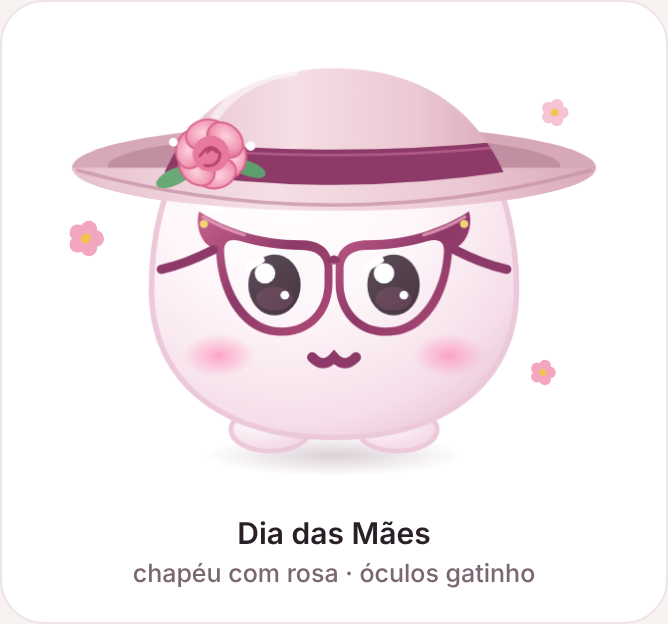
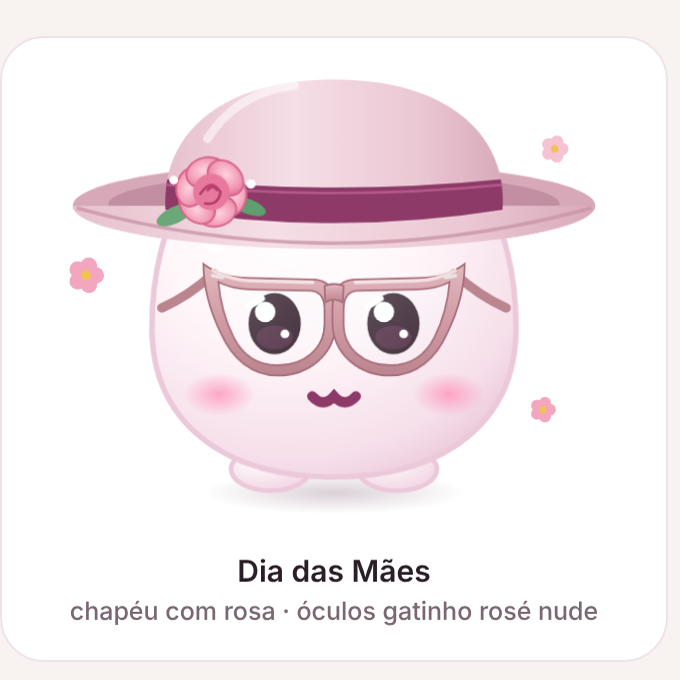
Esboço S135f (gatinho da foto e chapéus)
Claude-Session: https://claude.ai/code/session_01Vj5GPR2QjandaFr6ascRKC

diff --git a/work/s135/novos3.js b/work/s135/novos3.js
@@ -1,0 +1,34 @@
+var FULL="M-40 -60 L160 -60 L160 200 L-40 200 Z";
+var SH='<path d="M38 77 l3.2 -2 M68 77 l3.2 -2" stroke="#fff" stroke-width="1.7" stroke-linecap="round"/>';
+function heart(cx){return `M${cx} 93 C${cx-7} 88.5 ${cx-11.5} 84.5 ${cx-11.5} 79.6 C${cx-11.5} 75.8 ${cx-8.7} 73.4 ${cx-5.7} 73.4 C${cx-3.3} 73.4 ${cx-1.2} 74.9 ${cx} 77 C${cx+1.2} 74.9 ${cx+3.3} 73.4 ${cx+5.7} 73.4 C${cx+8.7} 73.4 ${cx+11.5} 75.8 ${cx+11.5} 79.6 C${cx+11.5} 84.5 ${cx+7} 88.5 ${cx} 93Z`}
+function flor(x,y,r,c,c2,rot){let p='';for(let i=0;i<5;i++){const a=(rot+i*72)*Math.PI/180;p+=`<circle cx="${(x+Math.cos(a)*r*.62).toFixed(2)}" cy="${(y+Math.sin(a)*r*.62).toFixed(2)}" r="${(r*.52).toFixed(2)}" fill="${c}"/>`}return `<g>${p}<circle cx="${x}" cy="${y}" r="${(r*.34).toFixed(2)}" fill="${c2}"/><circle cx="${x-r*.1}" cy="${y-r*.1}" r="${(r*.12).toFixed(2)}" fill="#fff" opacity=".7"/></g>`}
+function folha(x,y,rot){return `<ellipse cx="${x}" cy="${y}" rx="4.2" ry="1.9" transform="rotate(${rot} ${x} ${y})" fill="#5f9e6e"/><path d="M${x-3.4} ${y} L${x+3.4} ${y}" transform="rotate(${rot} ${x} ${y})" stroke="#3f7d52" stroke-width=".5"/>`}
+// Dia das Mães: coroa de flores + óculos de coração rosé
+var coroa='<path d="M20 56 Q60 22 100 56" stroke="#5f9e6e" stroke-width="1.6" fill="none" stroke-linecap="round"/>'+
+ folha(24,51,-50)+folha(33,42,-35)+folha(49,33.5,-15)+folha(71,33.5,15)+folha(87,42,35)+folha(96,51,50)+folha(40,36,150)+folha(80,36,30)+
+ '<g fill="#fff" opacity=".95"><circle cx="28" cy="44.5" r="1.3"/><circle cx="45" cy="33" r="1.2"/><circle cx="75" cy="33" r="1.2"/><circle cx="92" cy="44.5" r="1.3"/><circle cx="54" cy="29" r="1"/><circle cx="66" cy="29" r="1"/></g>'+
+ flor(23,54,6.2,'#f6b6c8','#e6a23c',10)+flor(37,40,7,'#e9739a','#f3c34f',30)+flor(60,32,8,'#f6b6c8','#e6a23c',-18)+flor(83,40,7,'#e9739a','#f3c34f',50)+flor(97,54,6.2,'#f6b6c8','#e6a23c',0)+
+ flor(48,34.5,4.2,'#fbd9e3','#e6a23c',0)+flor(72,34.5,4.2,'#fbd9e3','#e6a23c',20);
+var ROSE='<defs><linearGradient id="lftrs" x1="0" y1="0" x2="1" y2="1"><stop offset="0" stop-color="#f3c7b8"/><stop offset=".5" stop-color="#c98470"/><stop offset="1" stop-color="#e9b3a2"/></linearGradient></defs>';
+TEMA_M.maes={corte:FULL,tr:'',fr:'<g transform="translate(60 0) scale(.9 1) translate(-60 5)">'+coroa+'</g>',
+ ocl:ROSE+`<path d="${heart(45)}" fill="url(#lfmlz)" stroke="url(#lftrs)" stroke-width="2.3" stroke-linejoin="round"/><path d="${heart(75)}" fill="url(#lfmlz)" stroke="url(#lftrs)" stroke-width="2.3" stroke-linejoin="round"/><path d="M56.3 79 Q60 75.6 63.7 79" stroke="#c98470" stroke-width="2.2" fill="none" stroke-linecap="round"/><path d="M33.6 79 C26 78 21 78 16.5 79" fill="none" stroke="#c98470" stroke-width="2.4" stroke-linecap="round"/><path d="M86.4 79 C94 78 99 78 103.5 79" fill="none" stroke="#c98470" stroke-width="2.4" stroke-linecap="round"/>`+SH,
+ fundo:'<g fill="#f2a7bf"><path d="M-4 70 c-2.4-2.2-4.6-4-4.6-6.2 0-1.5 1.1-2.5 2.4-2.5 1 0 1.8.6 2.2 1.4.4-.8 1.2-1.4 2.2-1.4 1.3 0 2.4 1 2.4 2.5 0 2.2-2.2 4-4.6 6.2z"/><path d="M118 40 c-1.8-1.6-3.4-3-3.4-4.6 0-1.1.8-1.9 1.8-1.9.7 0 1.3.4 1.6 1 .3-.6.9-1 1.6-1 1 0 1.8.8 1.8 1.9 0 1.6-1.6 3-3.4 4.6z"/><path d="M114 104 c-1.5-1.4-2.9-2.6-2.9-4 0-1 .7-1.6 1.5-1.6.6 0 1.1.3 1.4.9.3-.6.8-.9 1.4-.9.8 0 1.5.6 1.5 1.6 0 1.4-1.4 2.6-2.9 4z"/></g>'};
+// Dia dos Pais: chapéu fedora azul-marinho + óculos clubmaster (tartaruga + dourado)
+var FED='<defs><linearGradient id="lftfd" x1="0" y1="0" x2="1" y2="0"><stop offset="0" stop-color="#26354d"/><stop offset=".35" stop-color="#3c5070"/><stop offset=".7" stop-color="#2b3b55"/><stop offset="1" stop-color="#1c2739"/></linearGradient><linearGradient id="lftgo3" x1="0" y1="0" x2="1" y2="0"><stop offset="0" stop-color="#c3922a"/><stop offset=".5" stop-color="#f6dc8c"/><stop offset="1" stop-color="#c3922a"/></linearGradient></defs>';
+TEMA_M.pais={corte:"M-40 53 L160 53 L160 200 L-40 200 Z",
+ tr:'<ellipse cx="60" cy="52.5" rx="57" ry="9.5" fill="#1c2739"/><ellipse cx="60" cy="52" rx="49" ry="6.8" fill="#121a28"/>',
+ fr:FED+'<path d="M3 52.5 A57 9.5 0 0 0 117 52.5 Z" fill="#26354d"/><path d="M5 53.6 Q60 66 115 53.6" stroke="#4a5f82" stroke-width="1" fill="none" opacity=".8"/>'+
+  '<path d="M25 54 C24 40 25 27 30 19 C35 13.5 46 13 52 16.5 C56 18.6 64 18.6 68 16.5 C74 13 85 13.5 90 19 C95 27 96 40 95 54 Q60 60 25 54Z" fill="url(#lftfd)"/>'+
+  '<path d="M52 16.5 C56 22 64 22 68 16.5" stroke="#1c2739" stroke-width="1.4" fill="none" opacity=".8"/><path d="M60 21 L60 33" stroke="#1c2739" stroke-width="1.1" opacity=".45"/>'+
+  '<path d="M32 22 C35 18 40 16 45 16" stroke="#fff" stroke-width="1.8" opacity=".22" fill="none" stroke-linecap="round"/>'+
+  '<path d="M25.2 44 Q60 50.5 94.8 44 L95 54 Q60 60 25 54Z" fill="#141c2a"/><path d="M25.3 45.5 Q60 52 94.7 45.5" stroke="url(#lftgo3)" stroke-width=".9" fill="none" opacity=".9"/>'+
+  '<path d="M80 46.5 l3 -1.2 1.6 7.6 -3 1z" fill="#a6743d"/><path d="M83.8 45.2 q4 -1 6 1.5 l-1 6 q-2.6 -1.4 -5 .6z" fill="#8b5e31" opacity=".9"/>',
+ ocl:FED+`<rect x="34.6" y="74.6" width="20.8" height="17" rx="6.5" fill="url(#lfmlz)"/><rect x="64.6" y="74.6" width="20.8" height="17" rx="6.5" fill="url(#lfmlz)"/>`+
+  `<rect x="34.6" y="74.6" width="20.8" height="17" rx="6.5" fill="none" stroke="url(#lftgo3)" stroke-width="1.2"/><rect x="64.6" y="74.6" width="20.8" height="17" rx="6.5" fill="none" stroke="url(#lftgo3)" stroke-width="1.2"/>`+
+  `<path d="M34.4 81 Q34 74.4 41 74.2 L49 74.2 Q55.6 74.4 55.6 79.5" stroke="#4a2c1a" stroke-width="3.6" fill="none" stroke-linecap="round"/><path d="M64.4 79.5 Q64.4 74.4 71 74.2 L79 74.2 Q86 74.4 85.6 81" stroke="#4a2c1a" stroke-width="3.6" fill="none" stroke-linecap="round"/>`+
+  `<path d="M37 75.4 L44 75.2 M67 75.2 L74 75.4" stroke="#8a5a36" stroke-width="1" stroke-linecap="round" opacity=".9"/><path d="M55.4 79.6 Q60 76.4 64.6 79.6" stroke="url(#lftgo3)" stroke-width="1.6" fill="none" stroke-linecap="round"/>`+
+  `<path d="M34.2 79.5 C26 78.5 21 78 16.5 79" fill="none" stroke="#4a2c1a" stroke-width="2.6" stroke-linecap="round"/><path d="M85.8 79.5 C94 78.5 99 78 103.5 79" fill="none" stroke="#4a2c1a" stroke-width="2.6" stroke-linecap="round"/>`+
+  `<circle cx="35.4" cy="79.4" r="1.1" fill="#e6c36a"/><circle cx="84.6" cy="79.4" r="1.1" fill="#e6c36a"/>`+SH,
+ fundo:'<g fill="#9aabc4"><path d="M-4 66 l1.6 -4.8 1.6 4.8 4.8 1.6 -4.8 1.6 -1.6 4.8 -1.6 -4.8 -4.8 -1.6z"/><path d="M115 40 l1.2 -3.6 1.2 3.6 3.6 1.2 -3.6 1.2 -1.2 3.6 -1.2 -3.6 -3.6 -1.2z"/></g>'};
+
+TEMA_M.pais.fr='<g transform="translate(60 53) scale(1.12) translate(-60 -53)">'+TEMA_M.pais.fr+'</g>';TEMA_M.pais.tr='<g transform="translate(60 53) scale(1.12) translate(-60 -53)">'+TEMA_M.pais.tr+'</g>';

diff --git a/work/s135/maes5.js b/work/s135/maes5.js
@@ -1,0 +1,31 @@
+(function(){
+const mir=d=>d.replace(/(-?\d+\.?\d*) (-?\d+\.?\d*)/g,(m,x,y)=>(120-x).toFixed(2).replace(/\.?0+$/,'')+' '+y);
+// óculos gatinho
+const D='<defs><linearGradient id="lftcat" x1="0" y1="0" x2="1" y2="1"><stop offset="0" stop-color="#c9608d"/><stop offset=".5" stop-color="#8d3a69"/><stop offset="1" stop-color="#b24c78"/></linearGradient><radialGradient id="lftrose" cx="45%" cy="40%" r="65%"><stop offset="0" stop-color="#ffd3df"/><stop offset=".6" stop-color="#f29ab5"/><stop offset="1" stop-color="#d9668e"/></radialGradient><linearGradient id="lfthat" x1="0" y1="0" x2="1" y2="0"><stop offset="0" stop-color="#e7c1cd"/><stop offset=".38" stop-color="#f6dfe6"/><stop offset=".75" stop-color="#ebc8d3"/><stop offset="1" stop-color="#d9aab9"/></linearGradient></defs>';
+const BR='<path d="M57.6 78 Q60 75.8 62.4 78" stroke="#8d3a69" stroke-width="2.2" fill="none" stroke-linecap="round"/>';
+const SHN='<path d="M38.5 78.6 l3.2 -2 M68.5 78.6 l3.2 -2" stroke="#fff" stroke-width="1.7" stroke-linecap="round"/>';
+const CO='<defs><linearGradient id="lftnu" x1="0" y1="0" x2="0" y2="1"><stop offset="0" stop-color="#dca7b1"/><stop offset=".55" stop-color="#c78b96"/><stop offset="1" stop-color="#b07784"/></linearGradient></defs>';
+const OF='M60.4 79 C60.4 74.6 58.8 72.2 55.4 71.8 L38.5 71.4 C33.6 71.2 29.8 70 26 66.6 C26.2 73  28.6 79.6 31.4 85.4 C34.2 91.8 39.2 96.2 45.8 96.2 C53.8 96.2 60.4 90.6 60.4 82.6 Z';
+const HO='M57.6 79.4 C57.6 76.4 56.4 74.8 54.2 74.6 L39 74.3 C35.6 74.2 33 73.6 30.8 72.4 C31.2 77.4 32.6 82.4 34.6 86.4 C37 91.2 40.8 93.6 45.8 93.6 C52.4 93.6 57.6 89.4 57.6 83 Z';
+const TOP='M29.4 69.4 C32.8 71.2 35.8 72 39 72.1 L54.6 72.5';
+const oclA=D+CO+`<path class="lfcL" d="${HO}" fill="url(#lfmlz)"/><path d="${mir(HO)}" fill="url(#lfmlz)"/>`+
+ `<path d="M29.6 70.2 C25 74.4 21 77 16.5 79" fill="none" stroke="#b07784" stroke-width="2.4" stroke-linecap="round"/><path d="M90.4 70.2 C95 74.4 99 77 103.5 79" fill="none" stroke="#b07784" stroke-width="2.4" stroke-linecap="round"/>`+
+ `<path d="${OF} ${HO}" fill="url(#lftnu)" fill-rule="evenodd" stroke="#9c6472" stroke-width=".45"/><path d="${mir(OF)} ${mir(HO)}" fill="url(#lftnu)" fill-rule="evenodd" stroke="#9c6472" stroke-width=".45"/>`+
+ `<path d="M57.6 73.4 Q60 72.4 62.4 73.4 L62.2 77.6 Q60 76.2 57.8 77.6 Z" fill="url(#lftnu)" stroke="#9c6472" stroke-width=".45"/>`+
+ `<path d="${TOP}" stroke="#f7e4e6" stroke-width=".9" fill="none" stroke-linecap="round" opacity=".9"/><path d="${mir(TOP)}" stroke="#f7e4e6" stroke-width=".9" fill="none" stroke-linecap="round" opacity=".9"/>`+
+ `<path d="M29.4 70.8 l2.4 .4 M90.6 70.8 l-2.4 .4" stroke="#e9e3e6" stroke-width="1" stroke-linecap="round"/>`+SHN;
+const ocl=oclA;
+// rosa
+function rosa(x,y,r){let p='';
+ for(let i=0;i<6;i++){const a=i*60+15,rad=a*Math.PI/180;const cx=x+Math.cos(rad)*r*.55,cy=y+Math.sin(rad)*r*.55;p+=`<ellipse cx="${cx.toFixed(2)}" cy="${cy.toFixed(2)}" rx="${(r*.55).toFixed(2)}" ry="${(r*.42).toFixed(2)}" transform="rotate(${a+90} ${cx.toFixed(2)} ${cy.toFixed(2)})" fill="url(#lftrose)" stroke="#d9668e" stroke-width=".5"/>`}
+ p+=`<circle cx="${x}" cy="${y}" r="${(r*.5).toFixed(2)}" fill="#e8799e"/>`;
+ p+=`<path d="M${x-r*.3} ${y+r*.05} q${r*.3} ${-r*.45} ${r*.55} ${-r*.05} q${-r*.05} ${r*.38} ${-r*.42} ${r*.32} M${x-r*.1} ${y-r*.05} q${r*.15} ${-r*.18} ${r*.25} 0" stroke="#b9426d" stroke-width=".7" fill="none" stroke-linecap="round"/>`;
+ return p}
+const fr=D+'<path d="M-6 53 A66 11 0 0 0 126 53 Z" fill="url(#lfthat)"/><path d="M-5 53.6 Q60 71.5 125 53.6" stroke="#c995a7" stroke-width=".9" fill="none" opacity=".8"/>'+
+ '<clipPath id="lftmc"><path d="M17.43 54.00 C16.14 35.76 30.33 20.94 60.00 20.94 C89.67 20.94 103.86 35.76 102.57 54.00 Q60.00 60.84 17.43 54.00Z"/></clipPath><path d="M17.43 54.00 C16.14 35.76 30.33 20.94 60.00 20.94 C89.67 20.94 103.86 35.76 102.57 54.00 Q60.00 60.84 17.43 54.00Z" fill="url(#lfthat)"/><path d="M28 36 C33 28 40.5 23.6 50 22.4" stroke="#fff" stroke-width="2.2" opacity=".55" fill="none" stroke-linecap="round"/><g clip-path="url(#lftmc)"><path d="M0 44.2 Q60 52.6 120 44.2 L120 70 L0 70Z" fill="#8d3a69"/><path d="M0 45.6 Q60 54 120 45.6" stroke="#b25887" stroke-width=".7" fill="none"/></g>'+
+ '<ellipse cx="19.5" cy="53" rx="5" ry="2.1" transform="rotate(-25 25 53.5)" fill="#6aa877"/><ellipse cx="38" cy="54.6" rx="4.6" ry="1.9" transform="rotate(20 42 55)" fill="#5f9e6e"/>'+
+ rosa(29,49.5,9.2)+'<g fill="#fff"><circle cx="39" cy="47.5" r="1.2"/><circle cx="19.5" cy="46.5" r="1.1"/></g>';
+const flor=(x,y,r,c)=>{let p='';for(let i=0;i<5;i++){const a=i*72*Math.PI/180;p+=`<circle cx="${(x+Math.cos(a)*r*.6).toFixed(2)}" cy="${(y+Math.sin(a)*r*.6).toFixed(2)}" r="${(r*.5).toFixed(2)}"/>`}return `<g fill="${c}">${p}</g><circle cx="${x}" cy="${y}" r="${r*.3}" fill="#f3c34f"/>`};
+TEMA_M.maes={corte:"M-40 54 L160 54 L160 200 L-40 200 Z",tr:'<ellipse cx="60" cy="53" rx="66" ry="11" fill="#d7a9b8"/><ellipse cx="60" cy="52.6" rx="57" ry="8" fill="#c18fa1"/>',fr:fr,ocl:ocl,
+ fundo:flor(-3,70,4.2,'#f2a7bf')+flor(116,38,3.2,'#f6c3d3')+flor(113,104,3,'#f2a7bf')};
+})();

diff --git a/work/s135/p.html b/work/s135/p.html
@@ -1,5 +1,5 @@
 <!doctype html><meta charset="utf-8"><style>body{margin:0;background:#f8f2f0;font:600 15px Inter,system-ui;color:#2a1f27}.w{display:flex;gap:18px;padding:18px;flex-wrap:wrap}.c{width:300px;background:#fff;border:1px solid #efe3ea;border-radius:22px;padding:16px;text-align:center}.m{width:260px;height:240px;margin:0 auto;position:relative}.m .mochi{width:100%;height:100%}.c small{display:block;font-weight:500;color:#7a6772;margin-top:4px}</style>
-<div class="w" id="w"></div><script src="base.js"></script><script src="novos2.js"></script><script src="maes4.js"></script><script>
+<div class="w" id="w"></div><script src="base.js"></script><script src="novos3.js"></script><script src="maes5.js"></script><script>
 const st=document.createElement('style');st.textContent=MOCHI_CSS;document.head.appendChild(st);
-[['x','Normal','sem tema'],['maes','Dia das Mães · A','gatinho clássico'],['maesB','Dia das Mães · B','gatinho redondo com asinha'],['pais','Dia dos Pais','chapéu mais largo']].forEach(([k,t,d])=>{document.documentElement.setAttribute('data-ev',k);const c=document.createElement('div');c.className='c';c.innerHTML='<div class="m"><div class="mochi">'+temaSvg(MOCHI_SVG).replace(/lftcc/g,'lftcc'+k)+'</div></div>'+t+'<small>'+d+'</small>';w.appendChild(c)});
+[['x','Normal','sem tema'],['maes','Dia das Mães','chapéu com rosa · óculos gatinho rosé nude'],['pais','Dia dos Pais','chapéu fedora · óculos clubmaster']].forEach(([k,t,d])=>{document.documentElement.setAttribute('data-ev',k);const c=document.createElement('div');c.className='c';c.innerHTML='<div class="m"><div class="mochi">'+temaSvg(MOCHI_SVG).replace(/lftcc/g,'lftcc'+k)+'</div></div>'+t+'<small>'+d+'</small>';w.appendChild(c)});
 </script>

diff --git a/work/s135/zoom.py b/work/s135/zoom.py
@@ -5,8 +5,8 @@ async def m():
     b=await p.chromium.launch();pg=await b.new_page(viewport={'width':1000,'height':400},device_scale_factor=2)
     pg.on('pageerror',lambda e:print('ERR',e))
     await pg.goto('file:///home/claude/lafouch/work/s135/p.html');await pg.wait_for_timeout(500)
-    for I in (0,1):
+    for I in (0,):
       r=await pg.evaluate('''(I)=>{const e=document.querySelectorAll('.lfcL')[I];const s=e.ownerSVGElement,pt=s.createSVGPoint();let bad=0;for(let k=0;k<72;k++){const a=k/72*2*Math.PI;pt.x=45+7.2*Math.cos(a);pt.y=83+8.4*Math.sin(a);if(!e.isPointInFill(pt))bad++}return bad}''',I)
       print('fora',I,r)
-    await pg.screenshot(path='S135e.png',full_page=True);await b.close()
+    await pg.screenshot(path='S135f.png',full_page=True);await b.close()
 asyncio.run(m())

diff --git a/docs/MEMORIA-PROJETO.md b/docs/MEMORIA-PROJETO.md
@@ -1617,3 +1617,4 @@ Decisões do dono sobre a tela Venda confirmada (esboço "venda_confirmada_compr
 - 11/11 03:11 DONO: Mães → chapéu com uma flor; óculos de coração grande demais e coração é tema de NAMORADOS (não usar no Dia das Mães); quer óculos GATINHO (mães gostam). ESBOÇO S135c (work/s135/S135c.png, maes2.js): chapéu de aba larga rosé com fita vinho (#8d3a69) e uma rosa com folhas à esquerda; óculos gatinho do tamanho do óculos normal, aro rosé-vinho com pontinha dourada nos cantos, o olho cabe inteiro (testado: 0 ponto do olho fora da lente); florzinhas no fundo. Pais sem mudança. Aguardando.
 - 11/11 03:13 DONO S135c: gostou do chapéu, mas ajustar ao formato da cabeça; óculos não parecia gatinho. ESBOÇO S135d (work/s135/S135d.png, S135d_perto.png, maes3.js, hat.json): copa do chapéu = contorno da cabeça 2,4 para fora (abraça a cabeça), aba maior (rx 66), fita vinho recortada na copa, rosa mais para a lateral; óculos gatinho com armação cheia mais grossa em cima, lente que sobe para o canto de fora e "asa" pontuda subindo para fora com pontinho dourado (olho cabe: 0 ponto fora). Aguardando.
 - 11/11 03:16 DONO: chapéu das Mães mais ALTO (como a versão anterior); chapéu dos Pais um pouco mais LARGO para encaixar na cabeça; REFAZER o óculos gatinho (cores aprovadas: rosé-vinho com pontinho dourado). ESBOÇO S135e (work/s135/S135e.png, maes4.js, novos2.js): copa das Mães 25% mais alta; fedora dos Pais 12% mais largo; óculos gatinho em 2 opções: A clássico (lente com canto de fora pontudo, inclinação leve) e B redondo com asinha no canto de cima. Olho cabe nos dois. Aguardando escolha.
+- 11/11 03:21 DONO mandou FOTO de referência de óculos gatinho (armação grossa rosé nude, topo quase reto que sobe só no canto de fora, fundo redondo e largo) → refazer o gatinho; cor pode mudar desde que lembre Dia das Mães. Chapéu das Mães = formato do esboço ORIGINAL (S135c: copa separada, cúpula) com as PROPORÇÕES do atual. Chapéu dos Pais: aumentar a ALTURA proporcionalmente. ESBOÇO S135f (work/s135/S135f.png, S135f_maes.png, maes5.js, novos3.js): gatinho em armação cheia rosé nude, topo reto + canto pontudo, fundo redondo, ponte grossa, olho cabe (0 ponto fora); copa original escalada 1,29 na largura e 1,14 na altura; fedora escalado 1,12 por inteiro (largura e altura) a partir da aba. Aguardando.
